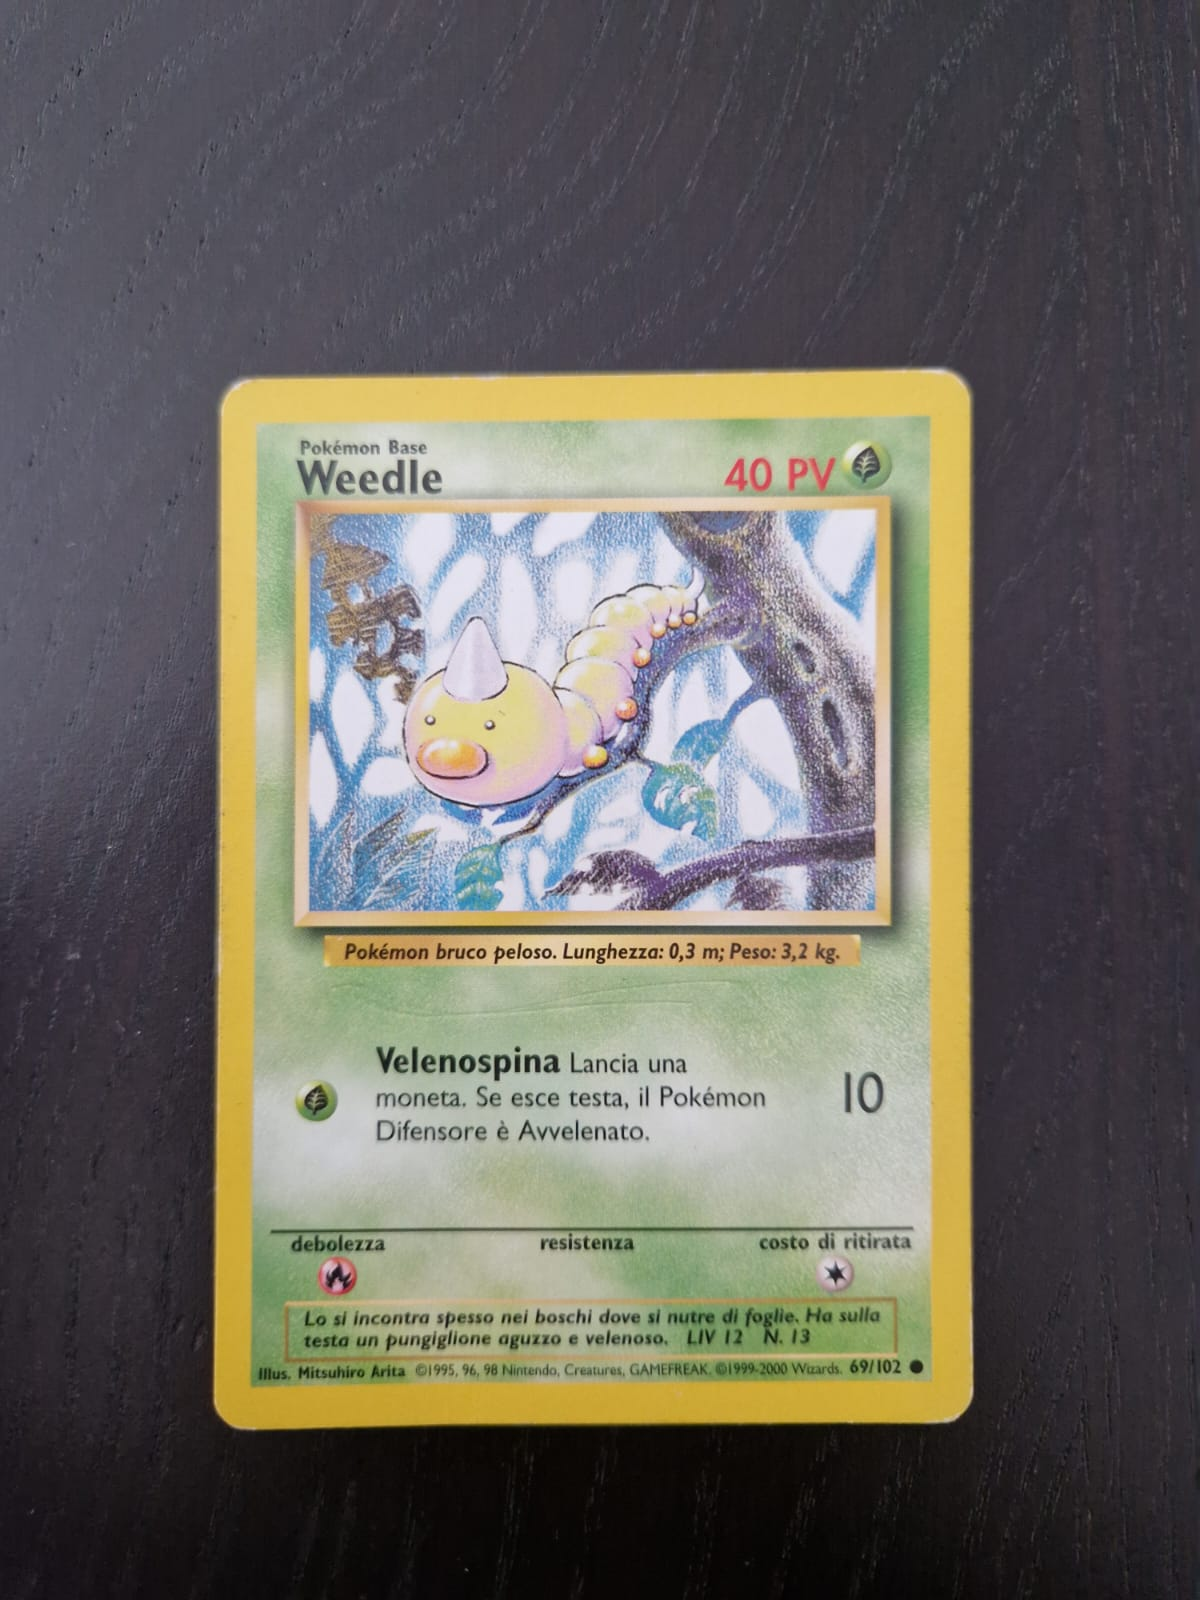
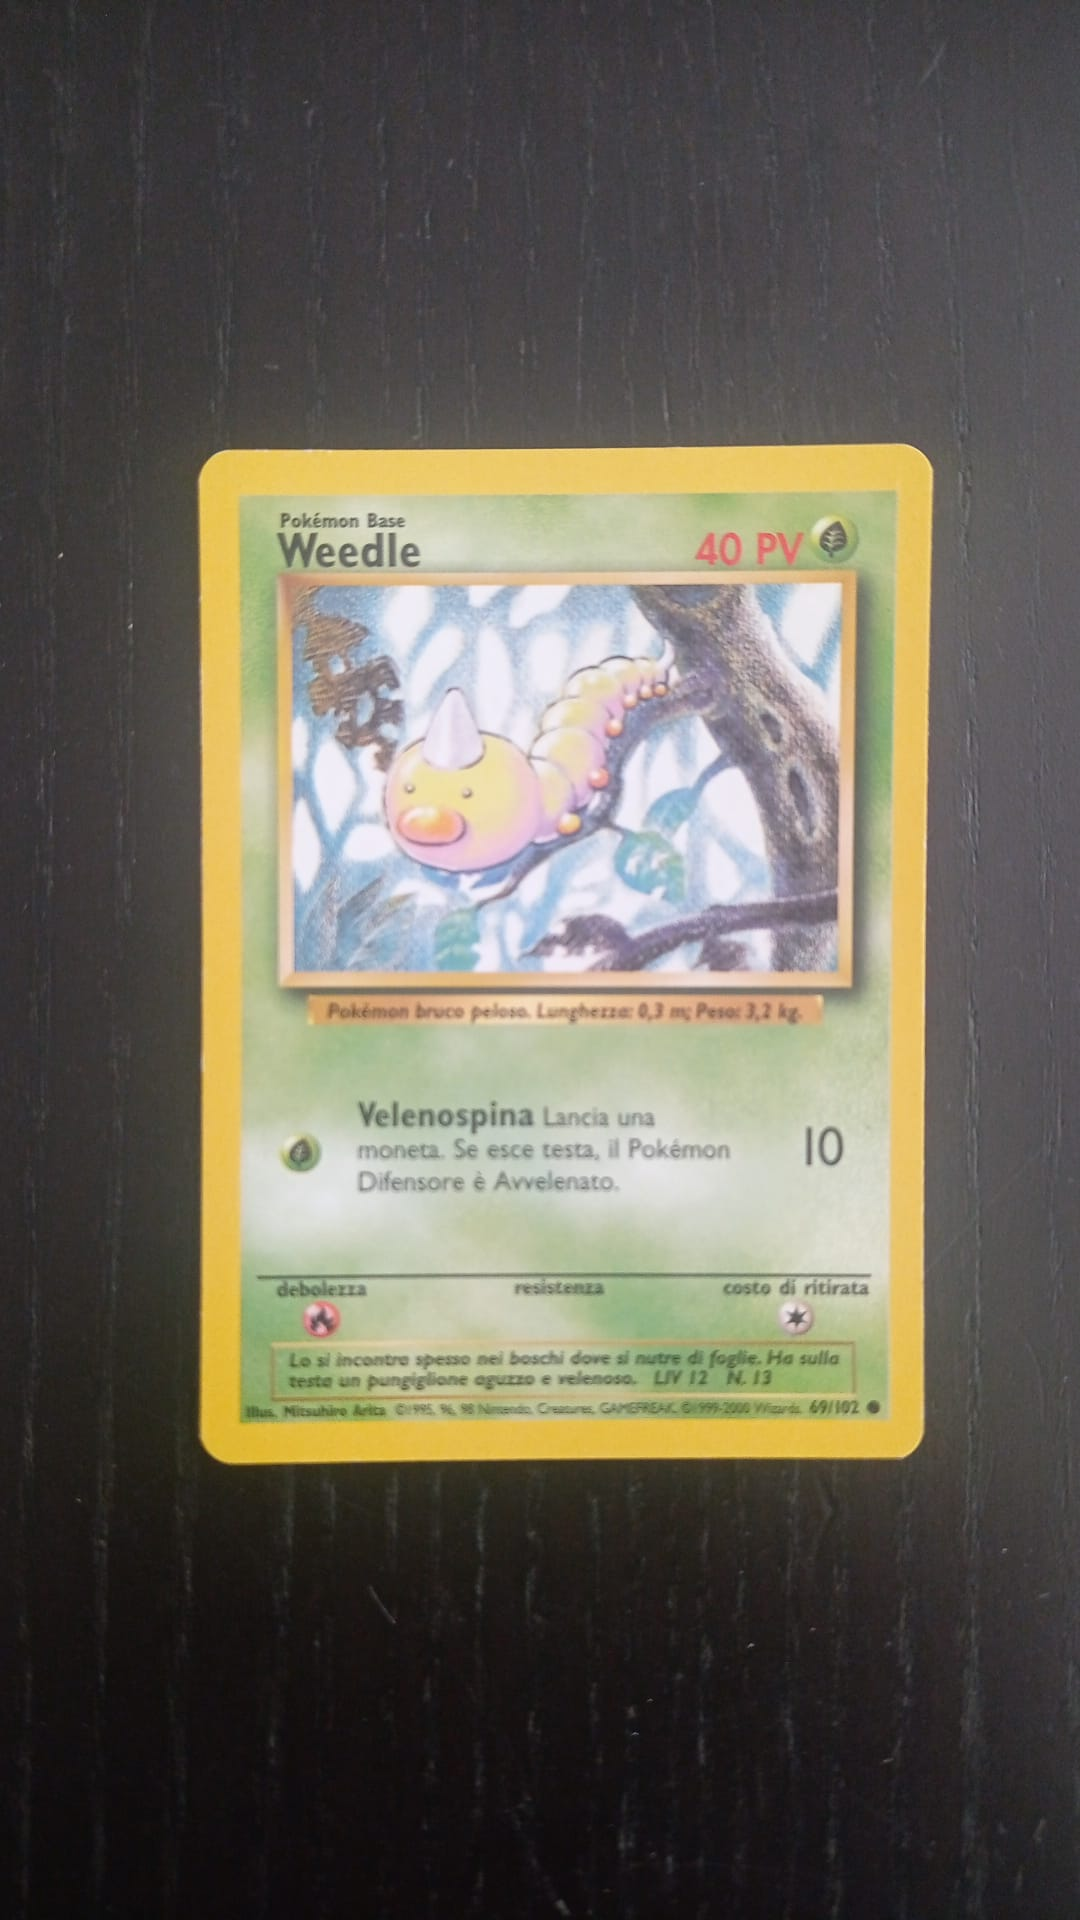
GUI 1.0 Final(only missing vote algorithm)

diff --git a/code/GUI/GUI.py b/code/GUI/GUI.py
@@ -91,34 +91,46 @@ def kyc(p_name, cen, cor, edg, sur, a_notebook, card_depiction_frame, card_frame
     pokemon_name_label=tk.Label(inner_name_frame,text=f'{p_details[0]}',font=(('Cascadia Code'), 20),pady=1,background=palette[2]) # Pokemon name
     pokemon_name_label.place(relx=0.5,rely=0.35,anchor='n')
     set_name_label=tk.Label(set_frame,text='',font=(('Cascadia Code'), 15),background=palette[0]) #Set the card is from
-    set_name_label.place(relx=0.25,rely=0.5,anchor='w')
+    set_name_label.place(relx=0.4,rely=0.5,anchor='w')
     set_name_label.configure(text=f'{set}')
     rarity_label=tk.Label(rarity_frame,text=f'{p_details[2]}',font=(('Cascadia Code'), 15),background=palette[3]) #Rarity
-    rarity_label.place(relx=0.3,rely=0.5,anchor='w')
+    rarity_label.place(relx=0.4,rely=0.5,anchor='w')
     pv_number_label=tk.Label(pv_frame,text=f'{p_details[4]}',font=(('Cascadia Code'), 15),background=palette[3]) # Pokemon PV
-    pv_number_label.place(relx=0.5,rely=0.5,anchor="center")
+    pv_number_label.place(relx=0.4,rely=0.5,anchor="w")
     type_name_label=tk.Label(type_frame,text=f'{p_details[1]}',font=(('Cascadia Code'), 15),background=palette[0]) # Pokemon Type
-    type_name_label.place(relx=0.5,rely=0.5,anchor="center")
+    type_name_label.place(relx=0.4,rely=0.5,anchor="w")
     ability_name_label=tk.Label(ability_name_frame,text=f'{p_details[5]}',font=(('Cascadia Code'), 15),background=palette[1]) # Ability Name
     ability_name_label.place(relx=0.5,rely=0.5,anchor='center')
-    ability_effect_label=tk.Label(ability_effect_frame,text=f'{p_details[16]}',font=(('Cascadia Code'), 10), justify='center',wraplength=300,background=palette[1]) # Ability Description MISSING
+    ability_effect_label=tk.Label(ability_effect_frame,text=f'{p_details[16]}',font=(('Cascadia Code'), 10), justify='center',wraplength=400,background=palette[1]) # Ability Description MISSING
     ability_effect_label.place(relx=0.5,rely=0.5,anchor='center')
-    move1_name_label=tk.Label(move1_name_frame,text=f'{p_details[6]}',font=(('Cascadia Code'), 15),background=palette[2]) # Move 1 Name
+    move1_name_label=tk.Label(move1_name_frame,text=f'{p_details[6]}',font=(('Cascadia Code'), 15),background=palette[2],wraplength=150) # Move 1 Name
     move1_name_label.place(relx=0.5,rely=0.5,anchor="center")
-    move1_cost_label=tk.Label(move1_cost_frame,text=f'{p_details[8]}',font=(('Cascadia Code'), 10),background=palette[2]) # Move 1 Cost
+    move1_cost_label=tk.Label(move1_cost_frame,text=f'{p_details[8]}',font=(('Cascadia Code'), 10),background=palette[2],wraplength=100) # Move 1 Cost
     move1_cost_label.place(relx=0.5,rely=0.5,anchor="center")
-    move1_effect_label=tk.Label(move1_effect_frame,text=f'{p_details[17]}',font=(('Cascadia Code'), 10),justify='center',wraplength=300,background=palette[2]) # Move 1 Effect MISSING
+    if p_details[17]=='':
+        move1_effect_label=tk.Label(move1_effect_frame,text=f'{p_details[7]}',font=(('Cascadia Code'), 15),justify='center',wraplength=300,background=palette[2])
+    else:
+        move1_effect_label=tk.Label(move1_effect_frame,text=f'{p_details[17]}',font=(('Cascadia Code'), 10),justify='center',wraplength=300,background=palette[2]) # Move 1 Effect
     move1_effect_label.place(relx=0.5,rely=0.5,anchor="center")
-    move1_damage_label=tk.Label(move1_damage_frame,text=f'{p_details[7]}',font=(('Cascadia Code'), 10),background=palette[2]) # Move 1 Damage
-    move1_damage_label.place(relx=0.5,rely=0.5,anchor="center")
-    move2_name_label=tk.Label(move2_name_frame,text=f'{p_details[9]}',font=(('Cascadia Code'), 15),background=palette[1]) # Move 2 Name
+    if p_details[17]!='':
+        move1_damage_label=tk.Label(move1_damage_frame,text=f'{p_details[7]}',font=(('Cascadia Code'), 10),background=palette[2]) # Move 1 Damage
+        move1_damage_label.place(relx=0.5,rely=0.5,anchor="center")
+    else:
+        pass
+    move2_name_label=tk.Label(move2_name_frame,text=f'{p_details[9]}',font=(('Cascadia Code'), 15),background=palette[1],wraplength=150) # Move 2 Name
     move2_name_label.place(relx=0.5,rely=0.5,anchor="center")
-    move2_cost_label=tk.Label(move2_cost_frame,text=f'{p_details[11]}',font=(('Cascadia Code'), 10),background=palette[1]) # Move 2 Cost
+    move2_cost_label=tk.Label(move2_cost_frame,text=f'{p_details[11]}',font=(('Cascadia Code'), 10),background=palette[1],wraplength=100) # Move 2 Cost
     move2_cost_label.place(relx=0.5,rely=0.5,anchor="center")
-    move2_effect_label=tk.Label(move2_effect_frame,text=f'{p_details[18]}',font=(('Cascadia Code'), 10),justify='center',wraplength=300,background=palette[1]) # Move 2 Effect MISSING
+    if p_details[18]=='':
+        move2_effect_label=tk.Label(move2_effect_frame,text=f'{p_details[10]}',font=(('Cascadia Code'), 15),justify='center',wraplength=300,background=palette[1])
+    else:
+        move2_effect_label=tk.Label(move2_effect_frame,text=f'{p_details[18]}',font=(('Cascadia Code'), 10),justify='center',wraplength=300,background=palette[1])
     move2_effect_label.place(relx=0.5,rely=0.5,anchor="center")
-    move2_damage_label=tk.Label(move2_damage_frame,text=f'{p_details[10]}',font=(('Cascadia Code'), 10),background=palette[1]) # Move 2 Damage
-    move2_damage_label.place(relx=0.5,rely=0.5,anchor="center")
+    if p_details[18]!='':
+        move2_damage_label=tk.Label(move2_damage_frame,text=f'{p_details[10]}',font=(('Cascadia Code'), 10),background=palette[1]) # Move 2 Damage
+        move2_damage_label.place(relx=0.5,rely=0.5,anchor="center")
+    else:
+        pass
     weakness_specification_label=tk.Label(weakness_frame,text=f'{p_details[12]}',font=(('Cascadia Code'), 15),background=palette[0]) # Weakness
     weakness_specification_label.place(relx=0.5,rely=0.5,anchor='center')
     resistance_specification_label=tk.Label(resistance_frame,text=f'{p_details[13]}',font=(('Cascadia Code'), 15),background=palette[2]) #text to be filled with resistance
@@ -259,7 +271,7 @@ def GUI(p_name, cen, cor, edg, sur):
     set_descriptive_label.place(relx=0.1,rely=0.5,anchor='w')
     pv_frame=tk.Frame(name_frame)
     pv_frame.place(relx=0.666,rely=0,relheight=0.5,relwidth=0.333)
-    pv_label=tk.Label(pv_frame,text='PV:',font=(('Cascadia Code'), 10))
+    pv_label=tk.Label(pv_frame,text='HP:',font=(('Cascadia Code'), 10))
     pv_label.place(relx=0.1,rely=0.5,anchor="w")
     type_frame=tk.Frame(name_frame)
     type_frame.place(relx=0.666,rely=0.5,relheight=0.5,relwidth=0.333)
@@ -283,22 +295,22 @@ def GUI(p_name, cen, cor, edg, sur):
     move1_name_frame=tk.Frame(move1_frame)
     move1_name_frame.place(relx=0,rely=0,relheight=1,relwidth=0.3)
     move1_cost_frame=tk.Frame(move1_frame)
-    move1_cost_frame.place(relx=0.3,rely=0,relheight=1,relwidth=0.1)
+    move1_cost_frame.place(relx=0.3,rely=0,relheight=1,relwidth=0.15)
     move1_effect_frame=tk.Frame(move1_frame)
-    move1_effect_frame.place(relx=0.4,rely=0,relheight=1,relwidth=0.5)
+    move1_effect_frame.place(relx=0.45,rely=0,relheight=1,relwidth=0.5)
     move1_damage_frame=tk.Frame(move1_frame)
-    move1_damage_frame.place(relx=0.9,rely=0,relheight=1,relwidth=0.1)
+    move1_damage_frame.place(relx=0.95,rely=0,relheight=1,relwidth=0.05)
     # Structure of the move2 frame
     move2_frame = tk.Frame(description_frame)
     move2_frame.place(relx=0,rely=0.5,relheight=0.25,relwidth=1,anchor='nw')
     move2_name_frame=tk.Frame(move2_frame)
     move2_name_frame.place(relx=0,rely=0,relheight=1,relwidth=0.3)
     move2_cost_frame=tk.Frame(move2_frame)
-    move2_cost_frame.place(relx=0.3,rely=0,relheight=1,relwidth=0.1)
+    move2_cost_frame.place(relx=0.3,rely=0,relheight=1,relwidth=0.15)
     move2_effect_frame=tk.Frame(move2_frame)
-    move2_effect_frame.place(relx=0.4,rely=0,relheight=1,relwidth=0.5)
+    move2_effect_frame.place(relx=0.45,rely=0,relheight=1,relwidth=0.5)
     move2_damage_frame=tk.Frame(move2_frame)
-    move2_damage_frame.place(relx=0.9,rely=0,relheight=1,relwidth=0.1)
+    move2_damage_frame.place(relx=0.95,rely=0,relheight=1,relwidth=0.05)
     #Structure of the lower frame
     lower_frame = tk.Frame(description_frame)
     lower_frame.place(relx=0,rely=0.75,relheight=0.25,relwidth=1,anchor='nw')
@@ -317,6 +329,6 @@ def GUI(p_name, cen, cor, edg, sur):
     retreat_frame.place(relx=0.666,rely=0,relheight=1,relwidth=0.333)
     retreat_label=tk.Label(retreat_frame,text='Retreat cost',font=(('Cascadia Code'), 10))
     retreat_label.place(relx=0.5,rely=0.25,anchor='center')
-    palettes={'Normal':['#bba095','#f1f1f1','#f0e3b2','#cfc29b'],'Fire':['#f86038','#ea4e24','#bf2121','#9a1919'],'Water':['#0d53b0','#276cc7','#4179c2','#78a8e5'],'Grass':['#b8c870','#98b860','#7cba41','#4c9500'],'Electric':['#f4dc36','#f5e844','#f8f818','#f3ae33'],'Psychic':['#e0b0f8','#b080d0','#8c55b0','#7d45c7'],'Fighting':['#d3b299','#b4948b','#8b5d5a','#bd3c5a']}
+    palettes={'Normal':['#bba095','#f1f1f1','#f0e3b2','#cfc29b'],'Fire':['#f86038','#ea4e24','#bf2121','#9a1919'],'Water':['#0d53b0','#276cc7','#4179c2','#78a8e5'],'Grass':['#b8c870','#98b860','#7cba41','#4c9500'],'Electric':['#f4dc36','#f5e844','#f8f818','#e4af0e'],'Psychic':['#e0b0f8','#b080d0','#8c55b0','#7d45c7'],'Fighting':['#d3b299','#b4948b','#8b5d5a','#bd3c5a']}
     # Start the application's main loop
     root.mainloop()

diff --git a/code/main.py b/code/main.py
@@ -28,7 +28,7 @@ def process_and_display_images(image_paths):
 
 def main():
     image_paths = [
-        'images/grader_test/electrode.jpeg',
+        'images/grader_test/weedle.jpg',
         # Add more image paths here
     ]
 
